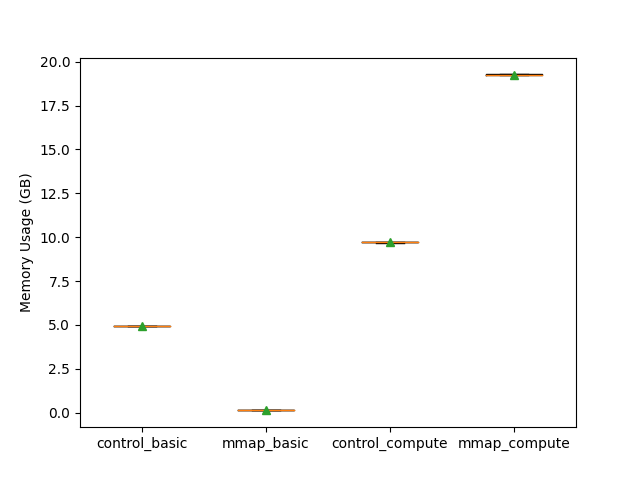
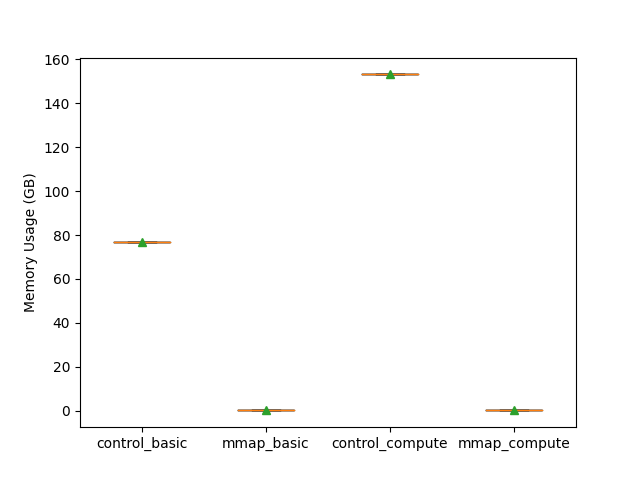
only 1 compute cycle

diff --git a/colbert/tests/mmap_test.py b/colbert/tests/mmap_test.py
@@ -9,9 +9,8 @@ import sys
 import time
 import torch
 
-TargetFile = 'ivf.pt'
-HDD_filepath = os.path.join('/lfs/1/udingank/msmarco.nbits-2.latest', TargetFile)
-SSD_filepath = os.path.join('/lfs/0/udingank/msmarco.nbits-2.latest', TargetFile)
+HDD_filepath = '/lfs/1/udingank/msmarco.nbits-2.latest'
+SSD_filepath = '/lfs/0/udingank/msmarco.nbits-2.latest'
 Sources = [HDD_filepath, SSD_filepath]
 Results = ['results-hdd.png', 'results-ssd.png']
 
@@ -28,6 +27,9 @@ BYTE_SIZE = 1
 
 NUM_COMPUTE_CYCLES = 10
 
+NUM_RES_FILES = 354
+TensorSizes = [0]*NUM_RES_FILES
+
 B_PER_GB = 1e9
 
 control_basic = []
@@ -38,33 +40,46 @@ mmap_compute = []
 control_timing = []
 mmap_timing = []
 
+def read_residuals(mmap, filepath, proc, q):
+    mem_buf = torch.empty(0)
+
+    for i in range(NUM_RES_FILES):
+        filename = os.path.join(filepath, "{}.residuals.pt".format(i))
+        if (i % 10 == 0):
+            print("reading file {}".format(filename))
+
+        if mmap:
+            storage = torch.ByteStorage.from_file(filename, shared=False, size=TensorSizes[i])
+
+        if mmap:
+            mem_buf = torch.cat([mem_buf, torch.ByteTensor(storage)])
+        else:
+            temp = torch.load(filename, map_location='cpu')
+            TensorSizes[i] = temp.nelement()
+            mem_buf = torch.cat([mem_buf, temp])
+
+            del temp
+            gc.collect()
+
+    print("mem_buf size = {}".format(mem_buf.nelement()))
+
+    mem = proc.memory_info().rss/B_PER_GB
+    q.put(mem)
+
+    return mem_buf
+
 def read_into_buffer(mmap, read_buf_size, filepath, q):
+    proc = psutil.Process(os.getpid())
 
     if verbose:
         print("Starting worker process {}".format(os.getpid()))
 
     # read time, average copy time, average calculation time, total time
     timing = { 'read_time': 0, 'average_copy_time': 0, 'average_calc_time': 0, 'total_time': 0 }
-    proc = psutil.Process(os.getpid())
 
+    # read from residual files into mem_buf
     start_time = time.time()
-
-    if mmap:
-        storage = torch.ByteStorage.from_file(filepath, shared=False, size=read_buf_size)
-
-    if mmap:
-        mem_buf = torch.ByteTensor(storage)
-        mem = proc.memory_info().rss/B_PER_GB
-        q.put(mem)
-    else:
-        #temp = torch.load(filepath, map_location='cpu')
-        #mem_buf = torch.cat(temp)
-        mem_buf = torch.load(filepath, map_location='cpu')
-        #del temp
-        #gc.collect()
-
-        mem = proc.memory_info().rss/B_PER_GB
-        q.put(mem)
+    mem_buf = read_residuals(mmap, filepath, proc, q)
 
     fetch_time = time.time()
     timing['read_time'] = fetch_time - start_time
@@ -164,11 +179,12 @@ def run_test(mmap, test_iter, read_buf_size, filepath):
             control_compute.extend(q.get())
             control_timing.append(q.get())
 
+# print the memory usage averages and save boxplot to files
 def print_results(target_dir, filepath):
     # print table and generate graph with results of memory mapping the
     #   files and not, in terms of memory pressure
 
-    print("Saving Results\n--------------")
+    print("\nSaving Results\n--------------")
     results = [control_basic, mmap_basic, control_compute, mmap_compute]
 
     # create labels
@@ -190,6 +206,7 @@ def print_results(target_dir, filepath):
     for i, l in enumerate(results):
         print("{:10s}: {:.2f} GB".format(labels[i], sum(l)/len(l)))
 
+# print the timing benchmarks
 def print_timing(test_iter):
     print("\nTiming Summary")
     print("--------------\n")
